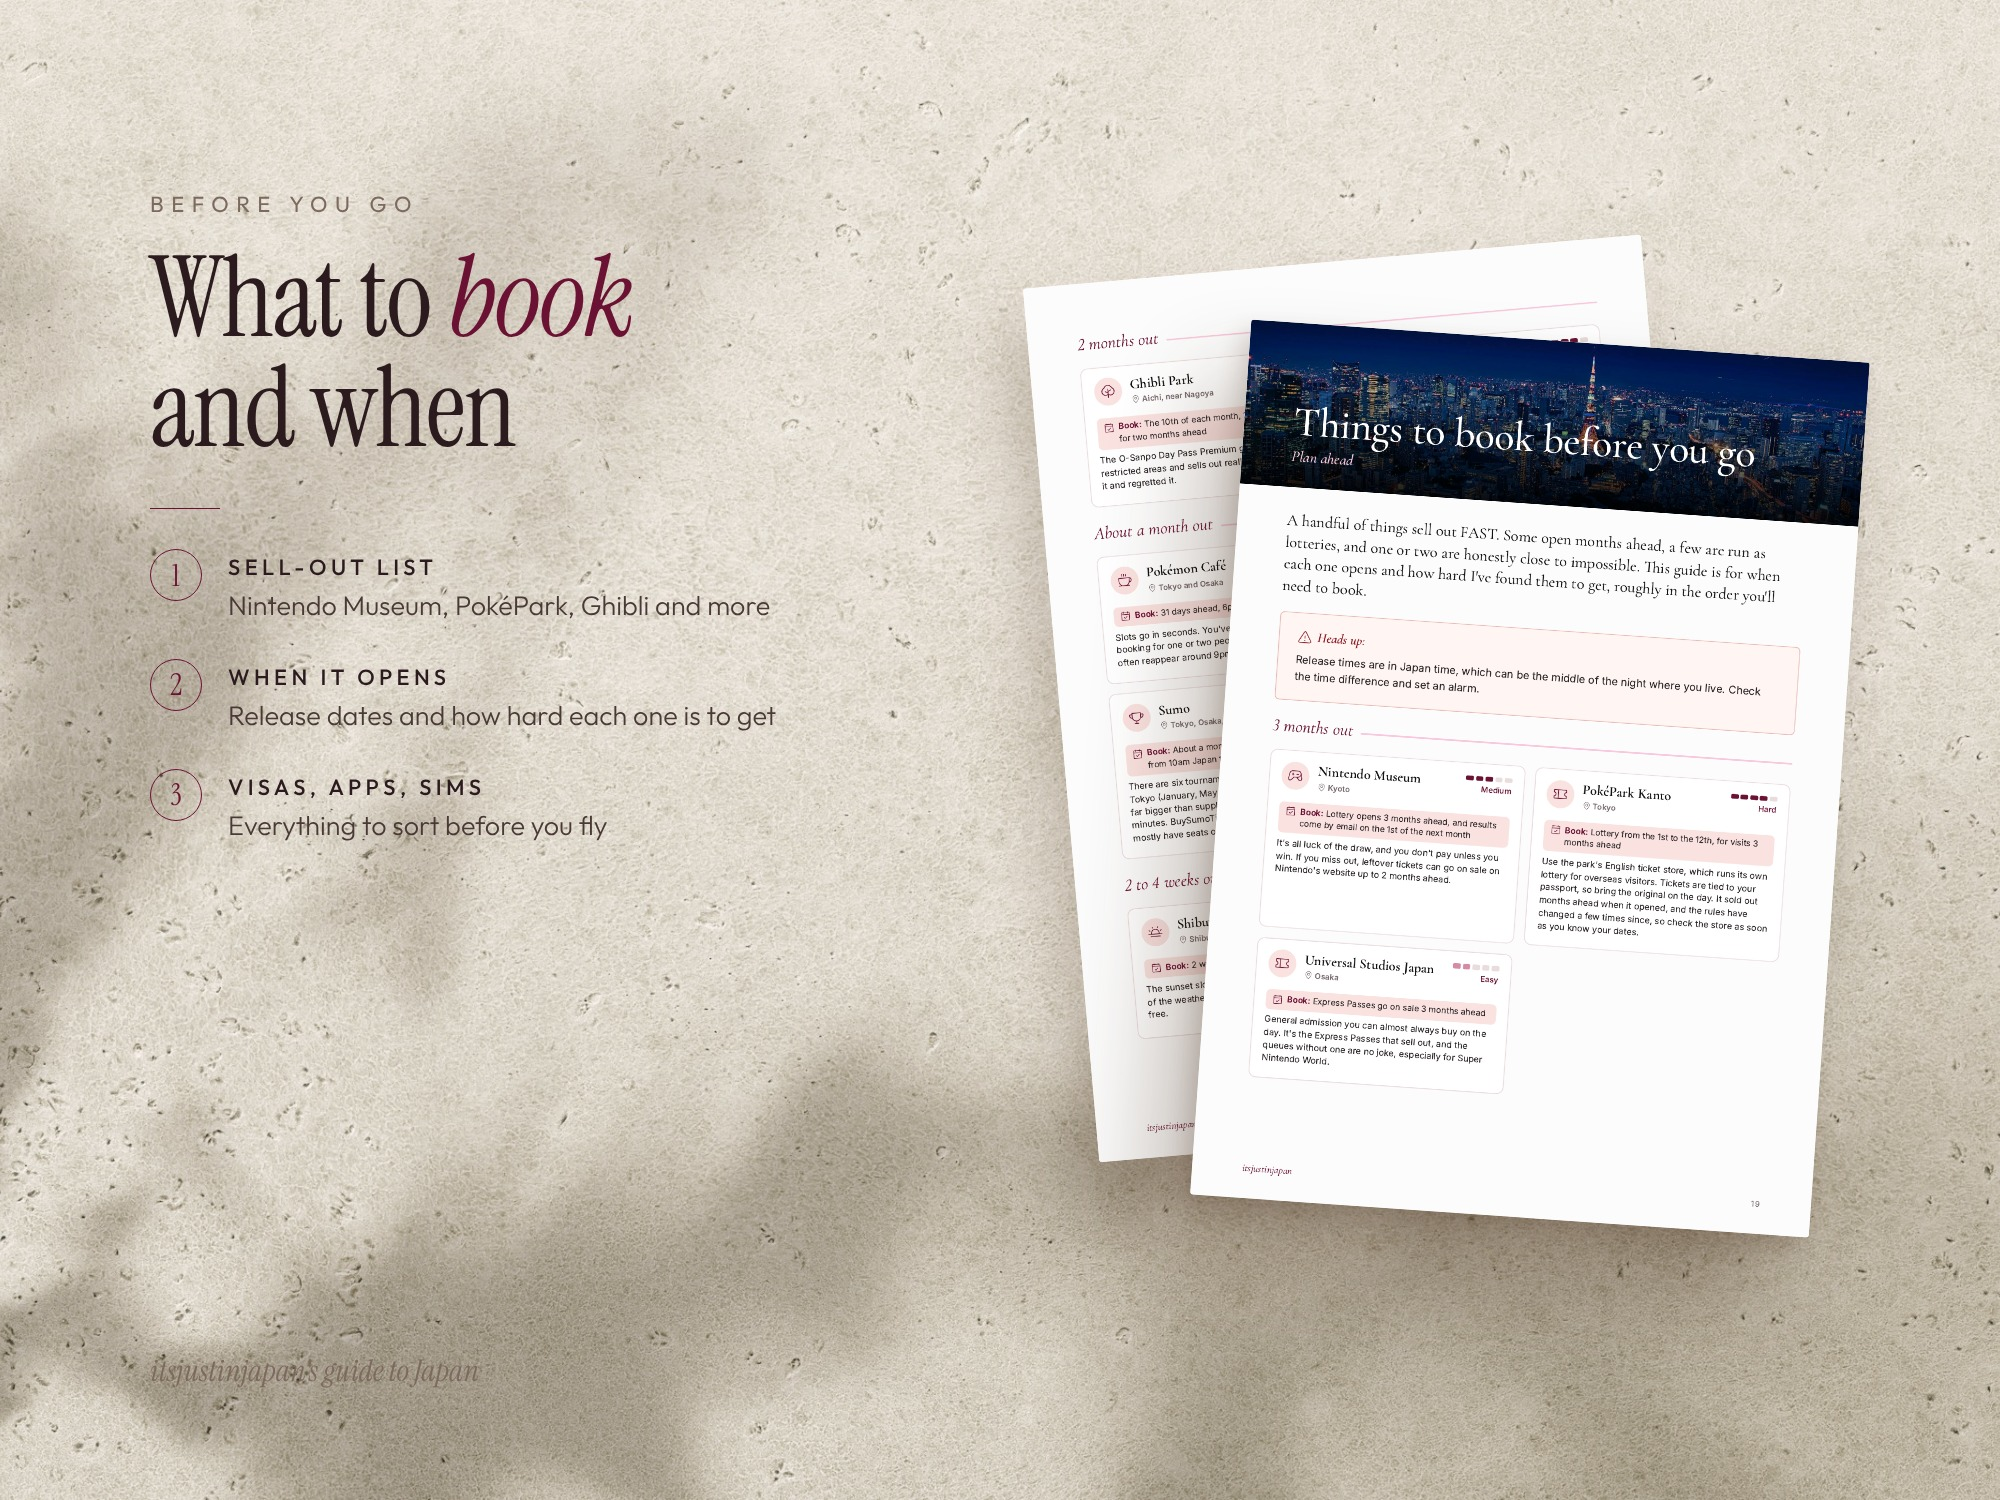
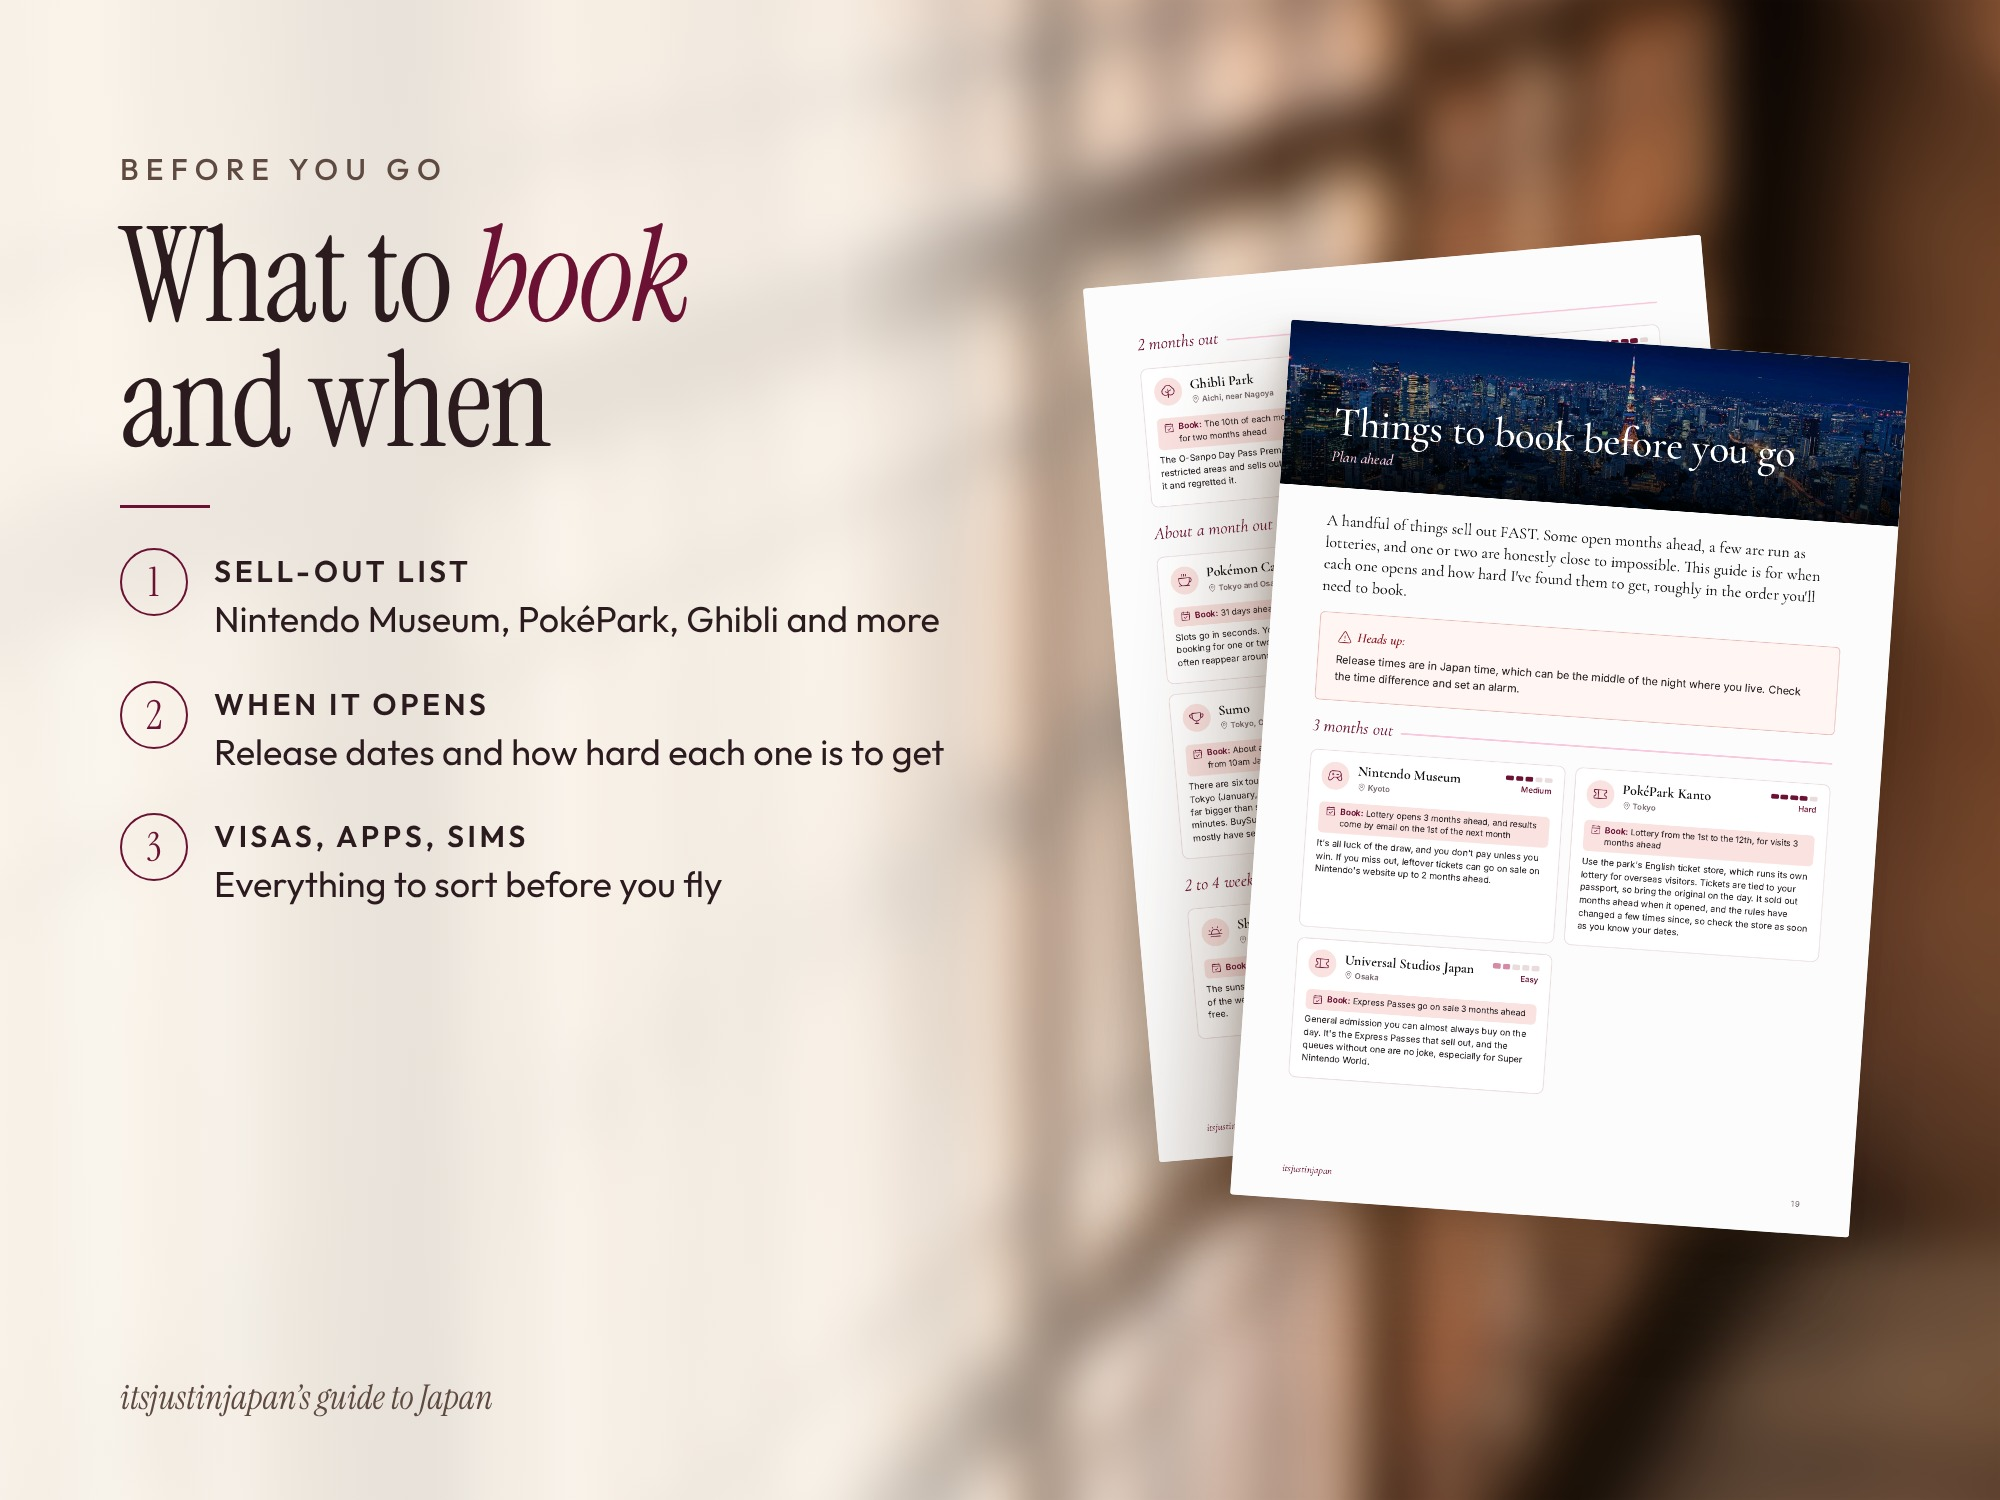
Listing images: shoji background, larger readable text
Claude-Session: https://claude.ai/code/session_01Ki5uwK1E6UNvwVLzA4yviP

diff --git a/listing-images/src/feat.css b/listing-images/src/feat.css
@@ -3,20 +3,20 @@
 @font-face{font-family:Outfit;src:url(outfit.woff2);font-weight:100 900}
 *{box-sizing:border-box;margin:0}
 body{width:2000px;height:1500px;overflow:hidden;position:relative;font-family:Outfit;color:#2b1a1e;background:#e9e2d8}
-.bg{position:absolute;inset:0;background:url(wall.jpg) center/cover;filter:saturate(.75) brightness(1.04)}
-.warm{position:absolute;inset:0;background:linear-gradient(180deg,rgba(246,238,226,.35),rgba(236,224,208,.15))}
-.head{position:absolute;left:150px;top:190px;width:760px}
-.kicker{font-size:22px;letter-spacing:.34em;text-transform:uppercase;color:#7d6a5e}
-h1{font-family:IS;font-weight:400;font-size:112px;line-height:.98;margin-top:26px;letter-spacing:-.015em}
+.bg{position:absolute;inset:-60px;background:url(shoji.jpg) center/cover;filter:blur(26px) saturate(.85) brightness(1.02)}
+.warm{position:absolute;inset:0;background:linear-gradient(90deg,rgba(250,245,237,.95) 0%,rgba(250,245,237,.88) 42%,rgba(250,245,237,.35) 55%,rgba(250,245,237,0) 64%)}
+.head{position:absolute;left:120px;top:150px;width:900px}
+.kicker{font-size:30px;letter-spacing:.24em;text-transform:uppercase;color:#5e4a40;font-weight:500}
+h1{font-family:IS;font-weight:400;font-size:132px;line-height:.95;margin-top:26px;letter-spacing:-.015em}
 h1 em{color:#6b1234}
-.line{width:70px;height:1.5px;background:#6b1234;margin:44px 0 40px}
-ol{list-style:none;padding:0;display:grid;gap:34px}
+.line{width:90px;height:3px;background:#6b1234;margin:40px 0 40px}
+ol{list-style:none;padding:0;display:grid;gap:38px}
 li{display:flex;gap:26px;align-items:flex-start}
-.n{flex:none;width:52px;height:52px;border:1.5px solid #6b1234;border-radius:50%;display:grid;place-items:center;font-family:IS;font-size:30px;color:#6b1234}
-li b{display:block;font-weight:500;font-size:22px;letter-spacing:.2em;text-transform:uppercase;color:#2b1a1e;margin-top:4px}
-li span:not(.n){display:block;font-weight:300;font-size:27px;line-height:1.4;color:#4a3a36;margin-top:6px}
+.n{flex:none;width:68px;height:68px;border:2.5px solid #6b1234;border-radius:50%;display:grid;place-items:center;font-family:IS;font-size:40px;color:#6b1234}
+li b{display:block;font-weight:600;font-size:30px;letter-spacing:.12em;text-transform:uppercase;color:#2b1a1e;margin-top:4px}
+li span:not(.n){display:block;font-weight:400;font-size:36px;line-height:1.3;color:#2b1a1e;margin-top:6px}
 .pg{position:absolute;background:#fff;border-radius:3px;overflow:hidden}
 .pg img{width:100%;height:100%;object-fit:cover;object-position:top;display:block}
-.back{left:1060px;top:260px;width:620px;height:877px;transform:rotate(-5deg);box-shadow:-20px 40px 60px rgba(70,45,25,.22)}
-.front{left:1220px;top:340px;width:620px;height:877px;transform:rotate(4deg);box-shadow:-40px 60px 90px rgba(70,45,25,.30),-8px 12px 22px rgba(70,45,25,.18)}
-.brand{position:absolute;left:150px;bottom:110px;font-family:IS;font-style:italic;font-size:30px;color:#7d6a5e}
+.back{left:1120px;top:260px;width:620px;height:877px;transform:rotate(-5deg);box-shadow:-20px 40px 60px rgba(70,45,25,.22)}
+.front{left:1260px;top:340px;width:620px;height:877px;transform:rotate(4deg);box-shadow:-40px 60px 90px rgba(70,45,25,.30),-8px 12px 22px rgba(70,45,25,.18)}
+.brand{position:absolute;left:120px;bottom:80px;font-family:IS;font-style:italic;font-size:34px;color:#5e4a40}

diff --git a/listing-images/src/hero-shoji.html b/listing-images/src/hero-shoji.html
@@ -5,13 +5,13 @@
 *{box-sizing:border-box;margin:0}
 body{width:2000px;height:1500px;overflow:hidden;position:relative;font-family:Outfit;color:#2b1a1e;background:#e9e2d8}
 .bg{position:absolute;inset:-60px;background:url(shoji.jpg) center/cover;filter:blur(26px) saturate(.85) brightness(1.02)}
-.warm{position:absolute;inset:0;background:linear-gradient(90deg,rgba(248,242,232,.80) 0%,rgba(248,242,232,.45) 45%,rgba(248,242,232,0) 70%)}
-.head{position:absolute;left:150px;top:200px;width:720px}
-.kicker{font-size:22px;letter-spacing:.34em;text-transform:uppercase;color:#7d6a5e}
-h1{font-family:IS;font-weight:400;font-size:132px;line-height:.95;margin-top:28px;color:#2b1a1e;letter-spacing:-.015em}
+.warm{position:absolute;inset:0;background:linear-gradient(90deg,rgba(250,245,237,.94) 0%,rgba(250,245,237,.86) 38%,rgba(250,245,237,.35) 52%,rgba(250,245,237,0) 62%)}
+.head{position:absolute;left:120px;top:170px;width:860px}
+.kicker{font-size:30px;letter-spacing:.24em;text-transform:uppercase;color:#5e4a40;font-weight:500}
+h1{font-family:IS;font-weight:400;font-size:156px;line-height:.93;margin-top:28px;color:#2b1a1e;letter-spacing:-.015em}
 h1 em{color:#6b1234}
-.line{width:70px;height:1.5px;background:#6b1234;margin:46px 0 34px}
-ul{list-style:none;padding:0;font-size:27px;line-height:2.05;color:#4a3a36;font-weight:300}
+.line{width:90px;height:3px;background:#6b1234;margin:44px 0 34px}
+ul{list-style:none;padding:0;font-size:40px;line-height:1.75;color:#2b1a1e;font-weight:400}
 .price{margin-top:44px;font-size:22px;letter-spacing:.28em;text-transform:uppercase;color:#6b1234}
 .book{position:absolute;left:1040px;top:230px;width:700px;height:990px;transform:rotate(3deg);
  box-shadow:-40px 60px 90px rgba(70,45,25,.30),-8px 12px 22px rgba(70,45,25,.18);border-radius:3px;overflow:hidden}
@@ -28,7 +28,7 @@ ul{list-style:none;padding:0;font-size:27px;line-height:2.05;color:#4a3a36;font-
  <div class="kicker">itsjustinjapan · 2027 edition</div>
  <h1>The <em>complete</em><br>guide to Japan</h1>
  <div class="line"></div>
- <ul><li>102-page guide, written from my own trips</li><li>14-day planner included</li><li>Instant download · phone or print</li></ul>
+ <ul><li>102-page guide from my own trips</li><li>14-day planner included</li><li>Instant download · phone or print</li></ul>
 </div>
 <div class="under"><img src="p82-082.png"></div>
 <div class="book"><img src="p1-001.png"></div>

diff --git a/listing-images/src/feat.py b/listing-images/src/feat.py
@@ -1,13 +1,13 @@
 import json, sys
 F = {
  "02-planner": dict(kicker="Included", title="A <em>14-day</em> plan,<br>ready to go",
-   pts=[("Day by day","Hotels, restaurants and things to do, all mapped out"),
+   pts=[("Day by day","Hotels, food and things to do, mapped out"),
         ("Yours to change","A Canva template: swap days, cities and activities"),
         ("Or keep it loose","How to split 7, 10 or 14 days if you'd rather wing it")],
    pages=["p6-006.png","p96-096.png"]),
  "03-tokyo": dict(kicker="Where to go", title="Every<br><em>neighbourhood</em><br>explained",
-   pts=[("Tokyo, area by area","What each neighbourhood is like and what to do there"),
-        ("Six more places","Hakone, Kyoto, Osaka, Nara, Kamakura and beyond"),
+   pts=[("Tokyo, area by area","What each area is like and what to do"),
+        ("Six more places","Hakone, Kyoto, Osaka, Nara and more"),
         ("My favourite spots","The places I'd send a friend, from my own trips")],
    pages=["p76-076.png","p77-077.png"]),
  "04-book": dict(kicker="Before you go", title="What to <em>book</em><br>and when",

diff --git a/listing-images/README.md b/listing-images/README.md
@@ -5,6 +5,7 @@ Look (v2, after Justin found v1 cluttered): **restraint**. A real photographed p
 the title left in Instrument Serif with one maroon (#6b1234) italic word, a thin rule, three quiet lines of Outfit, and the guide
 as large printed pages on the right. No pills, arrows, devices or stamp. One idea per image.
 
+Chosen look: blurred shoji background (src/hero-shoji.html + feat.css), large dark text on a cream fade for readability at thumbnail size.
 Build: edit `src/*.html` (pages come from japan-the-complete-guide.pdf via `pdftoppm -r 130`), then
 `node src/shot.cjs $PWD/src/heroA.html out.png` (hero.html is the rejected v1).
 
